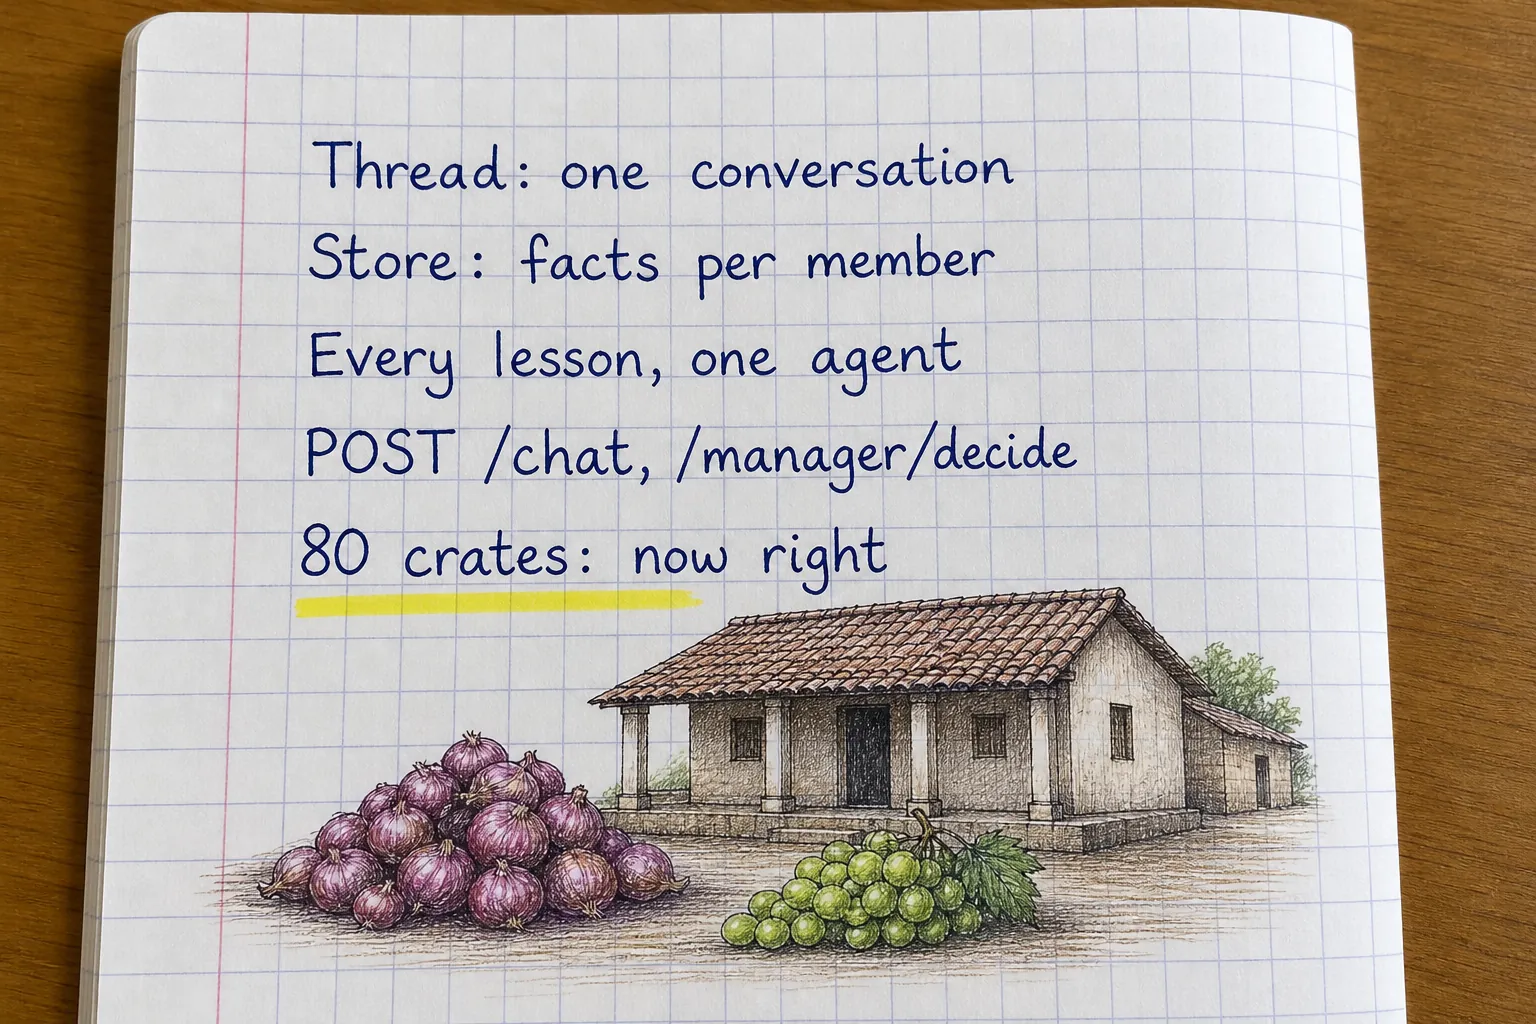
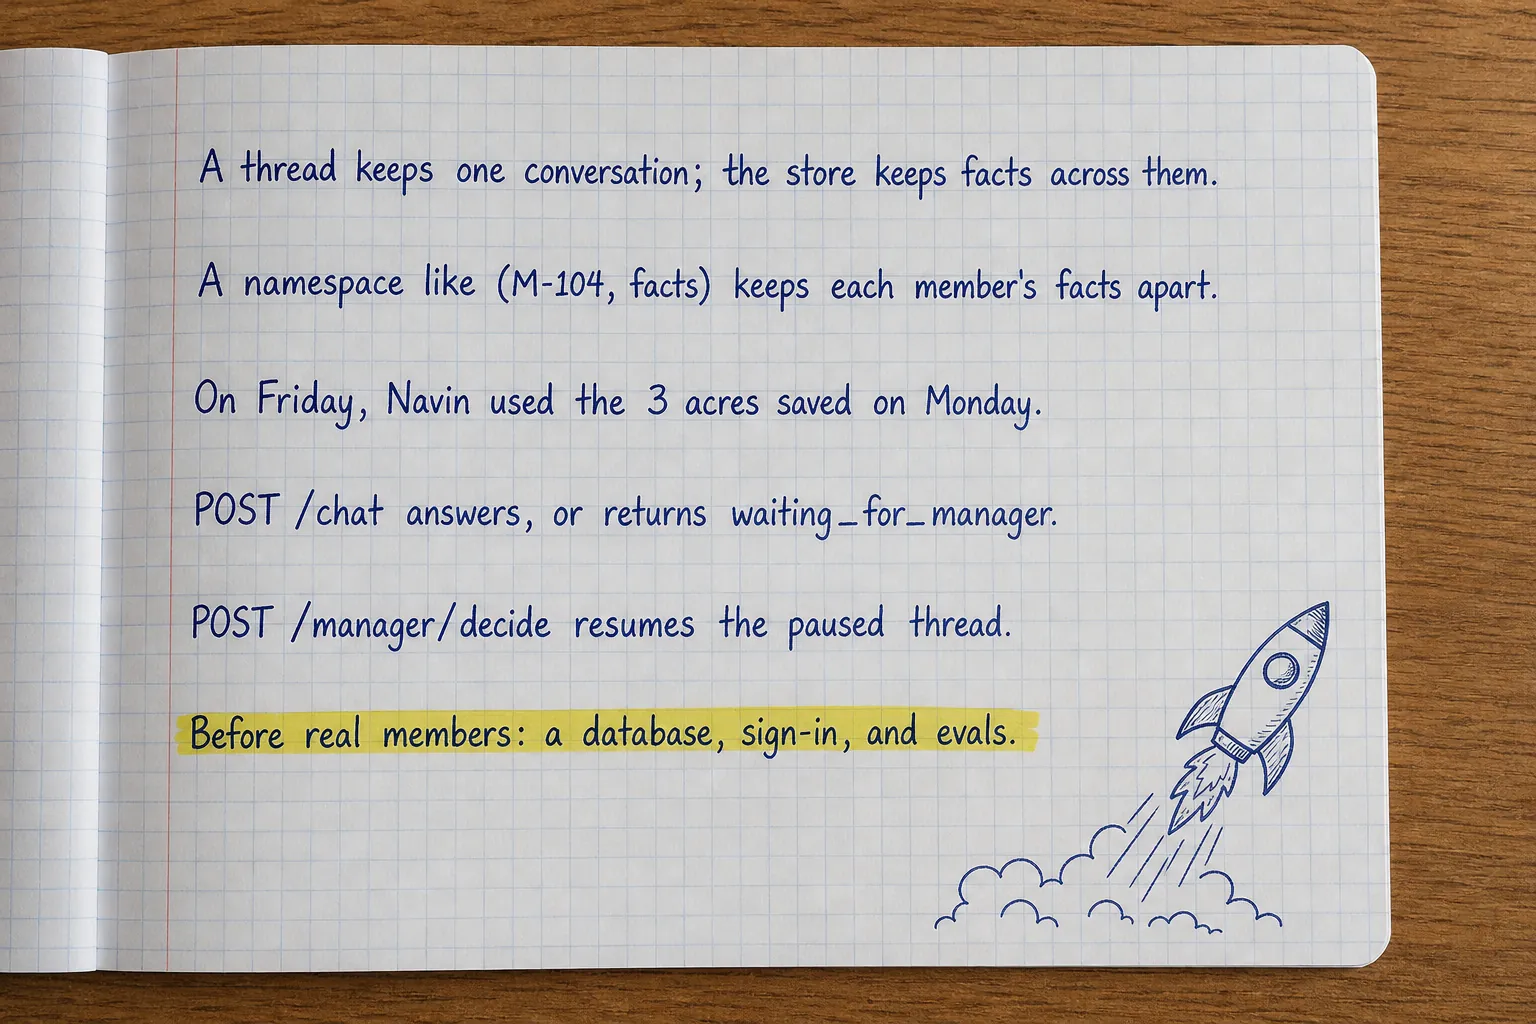
LangChain chapter 27 rewritten: plain and fuller, a still memory picture; the LangChain lab is done

diff --git a/frontend/src/lesson/Diagrams.tsx b/frontend/src/lesson/Diagrams.tsx
@@ -2614,6 +2614,34 @@ function LcGuards() {
   );
 }
 
+function LcLongMemory() {
+  // Still (owner, 25 November): chapter 27's real run: two threads of one member, one store between them.
+  return (
+    <Svg viewBox="0 0 440 292" label="Thread monday saves a fact with remember into the store under M-104 facts; thread friday never sees monday's messages, but member_prompt reads the fact from the store, so the answer uses 3 acres">
+      <Box x={8} y={4} w={204} h={96} label="" />
+      <text className="dg-label" x={20} y={28}>thread "monday"</text>
+      <text className="dg-note" x={20} y={52}>I farm 3 acres of onions</text>
+      <text className="dg-note" x={20} y={72}>in Lasalgaon.</text>
+      <text className="dg-note" x={20} y={92}>tool: remember</text>
+      <Box x={228} y={4} w={204} h={96} label="" />
+      <text className="dg-label" x={240} y={28}>thread "friday"</text>
+      <text className="dg-note" x={240} y={52}>How much crop loan for</text>
+      <text className="dg-note" x={240} y={72}>my whole farm?</text>
+      <text className="dg-note" x={240} y={92}>Rs 1,50,000 (3 acres)</text>
+      <Arrow x1={110} y1={102} x2={110} y2={166} />
+      <text className="dg-note" x={118} y={140}>store.put</text>
+      <Arrow x1={330} y1={168} x2={330} y2={104} />
+      <text className="dg-note" x={338} y={140}>member_prompt</text>
+      <text className="dg-note" x={338} y={156}>reads it</text>
+      <Box x={8} y={170} w={424} h={80} label="" tone="copy" />
+      <text className="dg-label" x={20} y={194}>store, namespace ("M-104", "facts")</text>
+      <text className="dg-note" x={20} y={218}>key "1": Ravi Patil farms 3 acres of onions</text>
+      <text className="dg-note" x={20} y={238}>in Lasalgaon.</text>
+      <text className="dg-note" x={8} y={280}>The two threads share no messages, only the store.</text>
+    </Svg>
+  );
+}
+
 function LcHumanLoop() {
   // Still (owner, 25 November): Ravi's real booking from chapter 25's run, paused, edited by the manager, resumed.
   const rows: [string, string, BoxTone][] = [
@@ -4039,6 +4067,7 @@ const DIAGRAMS: Record<string, () => JSX.Element> = {
   "lc-middleware": LcMiddleware,
   "lc-wrap-tool": LcWrapTool,
   "lc-guards": LcGuards,
+  "lc-long-memory": LcLongMemory,
   "lc-human-loop": LcHumanLoop,
   "lc-rag": LcRag,
   "lc-mcp": LcMcp,

diff --git a/labs/langchain/chapters/27-capstone.md b/labs/langchain/chapters/27-capstone.md
@@ -21,7 +21,7 @@ Give Navin a long-term memory of each member's facts, then serve the complete ag
 
 :::step{type=history title="Everything inside Navin"}
 :::before{title="A chatbot in 2016"}
-A help desk bot in 2016 was a decision tree: buttons, keywords, and "Sorry, I did not understand" for everything else
+Many help desk bots in 2016 were decision trees: buttons, keywords, and "Sorry, I did not understand" for everything else
 (chapter 1's rules).
 :::
 
@@ -31,7 +31,7 @@ Every part of Navin comes from the last few years:
 |---|---|---|
 | 2017 | The transformer | 4 |
 | 2020 | Retrieval-augmented generation | 19 |
-| 2022 | LangChain; prompt injection named | 7, 24 |
+| 2022 | LangChain | 7 |
 | 2023 | Function calling; JSON mode; evals | 10, 13, 26 |
 | 2024 | Structured outputs; MCP; vision in small models | 13, 21, 14 |
 | 2025 | LangChain 1.0: create_agent and middleware | 11, 22 |
@@ -51,7 +51,8 @@ can do, checks what it says, or brings a person in. That is what makes it safe t
 
 :::step{type=concept title="Short-term and long-term memory" file="27-capstone/navin.py" line="39-55"}
 Chapter 15's checkpointer remembers **one conversation** (a thread). Facts that should outlive it ("Ravi grows onions on
-3 acres in Lasalgaon") go into a **store**, shared by all of a member's threads:
+3 acres in Lasalgaon") go into a **store**: a place for saved items, each kept under a **namespace** (a tuple of names,
+like a folder path) and a **key** (its name inside that namespace). One store is shared by all of a member's threads:
 
 | Memory | Kept in | Lasts | Holds |
 |---|---|---|---|
@@ -67,12 +68,26 @@ request.runtime.store.search(("M-104", "facts"))                                
 ```
 
 The namespace `(member id, "facts")` keeps each member's facts apart, as the thread id keeps their conversations apart.
+
+:::diagram{name="lc-long-memory"}
+A real run from this chapter: one member, two threads, one store.
+:::
 :::
 
 :::step{type=task task=remember_fact title="Your turn: remember a fact" file="27-capstone/navin.py" line="39-45"}
-Finish the `remember` tool: save `{"fact": fact}` with `runtime.store.put(namespace, key, value)`, where the namespace is
-`(runtime.context.member_id, "facts")` and the key the next number, `str(len(runtime.store.search(namespace)) + 1)`.
-Return `"Saved."`.
+Finish the `remember` tool:
+
+1. The namespace: `namespace = (runtime.context.member_id, "facts")`, a tuple.
+2. The key, the next number as text: `str(len(runtime.store.search(namespace)) + 1)`.
+3. Save it: `runtime.store.put(namespace, key, {"fact": fact})`.
+4. Return `"Saved."`.
+
+The usual slips (we tried them on the store):
+
+- A plain string as the namespace, `"M-104"`: no error, but the store reads it letter by letter and files the fact
+  under `['M', '-', '1', '0', '4']`.
+- Saving the fact itself instead of a dict, `put(namespace, key, fact)`: `ValueError`. A value must be a dict.
+- The same key every time (say `"1"`): each new fact silently replaces the last one.
 
 Press **Check**.
 :::
@@ -90,15 +105,26 @@ Press **Check**.
 | `HumanInTheLoopMiddleware` on `book_storage` | 25 |
 | checkpointer and store | 15, this chapter |
 
-`app.py` wraps it in FastAPI: `POST /chat` runs the agent for a member (thread = member id, context = who they are), and
+`app.py` wraps it in **FastAPI**, a Python library for web services (each decorated function answers one URL):
+`POST /chat` runs the agent for a member (thread = member id, context = who they are), and
 `reply(result)` turns the result into JSON, either an answer or a booking waiting for the manager. `POST
 /manager/decide` resumes the member's thread with the manager's decision.
 :::
 
 :::step{type=task task=chat_endpoint title="Your turn: the chat endpoint" file="27-capstone/app.py" line="31-36"}
-Finish `chat(body)`: invoke the agent with the member's message, the config `{"configurable": {"thread_id":
-body.member_id}}` and `context=Member(body.member_id, NAMES.get(body.member_id, "a member"))`, and return
-`reply(result)`.
+Finish `chat(body)`:
+
+1. The config: `{"configurable": {"thread_id": body.member_id}}`, so each member has their own thread.
+2. The context: `Member(body.member_id, NAMES.get(body.member_id, "a member"))`.
+3. Invoke the agent with `{"messages": [{"role": "user", "content": body.message}]}`, the config, and
+   `context=...`.
+4. Return `reply(result)`: it turns the result into an answer, or a booking waiting for the manager.
+
+The usual slips:
+
+- Leaving out `context=`: `member_prompt` then fails before any model call, with `AttributeError: 'NoneType' object
+  has no attribute 'member_id'` (we tried it).
+- One fixed thread id for everyone: every member would then share one conversation, and one paused booking.
 
 Start the service in one terminal:
 
@@ -118,8 +144,12 @@ Press **Check**.
 :::step{type=try title="Navin, live"}
 With the service running, `try.sh` plays one member's morning:
 
+A real run (again on 25 November: the same six results, in other words; the loan came out as "Rs 1,50,000", the
+Indian way of grouping digits, where this run wrote "Rs 150,000"):
+
 ```text
 $ bash try.sh
+
 {"status":"answered","answer":"Hello, Ravi! It's nice to meet you. How can I assist you today?"}
 
 {"status":"answered","answer":"You can store 80 crates of onions, but you'll need the manager's approval since it's more than 50 crates. This usually takes one working day to get. Remember, the crates must be clean and labeled with your member number."}
@@ -141,14 +171,18 @@ Six requests, the whole course at work:
    chunks carry their titles (chapter 20).
 3. The booking comes back as `waiting_for_manager` with its arguments; nothing is booked yet (chapter 25).
 4. The manager approves through `/manager/decide`, and the same thread finishes: booking B-101.
-5. The Aadhaar number was masked before the model saw it (chapter 24), and Navin declined to store it.
-6. The loan: Rs 50,000 per acre for his 3 acres. Navin knew the acres from earlier in the conversation.
+5. The Aadhaar number was masked before the model saw it (chapter 24): in our re-run the thread holds "My Aadhaar
+   is ****1176, please note it.", and Navin declined to save it with `remember`; the store still held only the farm
+   fact.
+6. The loan: Rs 50,000 per acre for his 3 acres. Navin knew the acres twice over: from the first message in this
+   thread, and from the fact `remember` saved then.
 
 The last answer also shows what is still missing: the model multiplied 3 × 50,000 itself, because this agent has no loan
 tool. It is right, but chapter 12's `crop_loan_limit` belongs in the tool list.
 
 Long-term memory is clearest across two **different** threads. Ravi mentions his farm on Monday; on Friday, in a new
-conversation, he asks about a loan:
+conversation, he asks about a loan (a real run, with threads named `monday` and `friday`; on 25 November the re-run
+called `remember` on Monday, only `search_rules` on Friday, and gave the same Rs 1,50,000):
 
 ```text
 [monday] > I farm 3 acres of onions in Lasalgaon.
@@ -224,7 +258,7 @@ You can now:
 That is the end of the course. You started with a rule that answered two questions; Navin now answers a village of
 farmers from the co-op's own rules, in their own language, and asks the manager before it books. Well done.
 
-:::photo{src="/lesson-images/langchain/lc-27-notes.webp" alt="Handwritten notes about the capstone: Thread: one conversation; Store: facts per member; Every lesson, one agent; POST /chat, /manager/decide; 80 crates: now right" ai="true"}
+:::photo{src="/lesson-images/langchain/lc-27-notes.webp" alt="Handwritten notes about the capstone: A thread keeps one conversation; the store keeps facts across them. A namespace like (M-104, facts) keeps each member's facts apart. On Friday, Navin used the 3 acres saved on Monday. POST /chat answers, or returns waiting_for_manager. POST /manager/decide resumes the paused thread. Before real members: a database, sign-in, and evals." ai="true"}
 One page of notes for this chapter.
 :::
 :::

diff --git a/CHANGELOG.md b/CHANGELOG.md
@@ -1,5 +1,16 @@
 # Changelog
 
+## 25 November: LangChain chapter 27 rewritten; the LangChain lab is done (27 of 27)
+
+- Store, namespace, key and FastAPI are explained where they first appear; both tasks list their steps and the usual
+  slips, tried on the store and the agent: a string namespace is read letter by letter, a plain-text value raises
+  `ValueError`, one fixed key overwrites, and a missing `context=` fails with `AttributeError` before any model call.
+- A new still picture: one member, two threads, one store, from the real run.
+- Checked through the lab gateway: `try.sh` gave the same six results, the Monday and Friday threads the same
+  Rs 1,50,000 from the saved fact (`remember` on Monday, only `search_rules` on Friday), and the Aadhaar message was
+  saved masked and kept out of the store. Corrected: the history table no longer says chapter 24 covers prompt
+  injection (no chapter does). A new notes page.
+
 ## 25 November: LangChain chapter 26 rewritten (easy, a little detailed, checked)
 
 - Evals, golden set, pass rate and judge are explained where they first appear, with a table of unit tests against

diff --git a/REWRITE_LIST.md b/REWRITE_LIST.md
@@ -6,12 +6,12 @@ real code and data, still pictures with real numbers, new notes pages. The rules
 After each lab: stop, tell the owner, do the owner's small tasks, then the next lab. What was wrong and fixed in each
 chapter is in `CHANGELOG.md`.
 
-Status: **1 of 23 labs done** (13 of 319 chapters).
+Status: **2 of 23 labs done** (40 of 319 chapters).
 
 | # | Lab | Title | Chapters | Status | Done on |
 |---|---|---|---|---|---|
 | 1 | rag-vector-databases | RAG and vector databases | 13 | done (13 of 13) | 25 Nov |
-| 2 | langchain | LangChain | 27 | in progress (26 of 27) | |
+| 2 | langchain | LangChain | 27 | done (27 of 27) | 25 Nov |
 | 3 | langchain4j | LangChain4j | 30 | not started | |
 | 4 | langgraph | LangGraph | 24 | not started | |
 | 5 | spring-ai | Spring AI | 20 | not started | |
